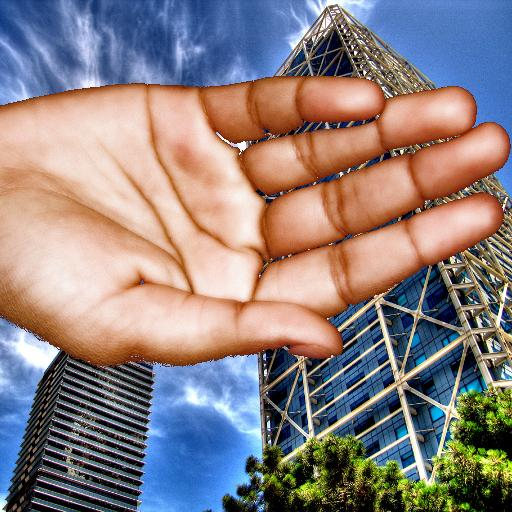
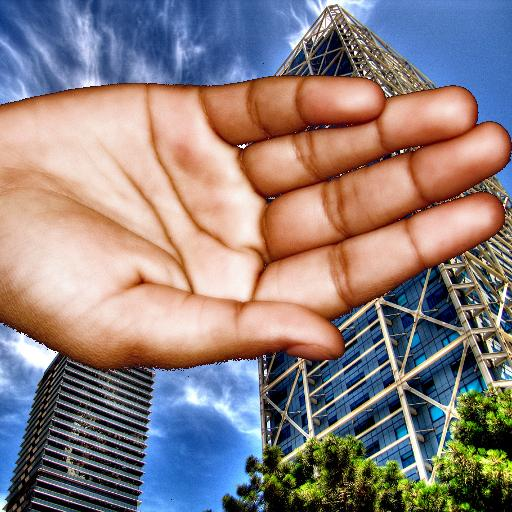
Ex6 Reviewed

diff --git a/exercise6.m b/exercise6.m
@@ -1,7 +1,7 @@
 % - - - - - - 
 % MAI CV
 % Exercises Lab 1
-% Author name: Jorge Alexander
+% Author name: Emer Rodriguez Formisano and Jorge Alexander
 % - - - - - - 
 
 
@@ -9,26 +9,27 @@
 %- - - - - - 
 %Exercise 6:
 %- - - - - - 
-% 1
+% 1 Read Input
 HAND = imread('images/hand.jpg');
 MAPFRE = imread('images/mapfre.jpg');
 grayscaleHand = rgb2gray(HAND);
-% 2
-foregroundHand = grayscaleHand >= 50;
-backgroundHand = grayscaleHand < 50;
-reverseBinary = (foregroundHand - 1).^2;
-% note reverse binary == backgroundHand
-subplot(1,4,1), imshow(HAND);
-subplot(1,4,2), imshow(foregroundHand);
-subplot(1,4,3), imshow(backgroundHand);
-subplot(1,4,4), imshow(reverseBinary);
 
-% 3
-background = MAPFRE.*uint8(reverseBinary);
+% 2 Binarization
+th = 20;
+foregroundHand = grayscaleHand >= th;
+backgroundHand = not(foregroundHand);
+
+subplot(2,2,1), imshow(HAND), title("Original Hand");
+subplot(2,2,2), imshow(MAPFRE), title("Original Mapfre");
+subplot(2,2,3), imshow(foregroundHand), title("Foreground");
+subplot(2,2,4), imshow(backgroundHand), title("Background");
+
+% 3 Merge
+background = MAPFRE.*uint8(backgroundHand);
 foreground = HAND.*uint8(foregroundHand);
 handMapfre = background + foreground;
-subplot(1,1,1), imshow(handMapfre);
+subplot(1,1,1), imshow(handMapfre), title("Hand + Mafre");
 
-% 4 
+% 4 Save output
 imwrite(handMapfre, 'hand_mapfre.jpg');
 

diff --git a/fuseImg.m b/fuseImg.m
@@ -1,0 +1,23 @@
+function fuseImg()
+%fuseImg Function that executes steps 1 to 4 of Exercise 6
+
+% 1 Read Input
+HAND = imread('images/hand.jpg');
+MAPFRE = imread('images/mapfre.jpg');
+grayscaleHand = rgb2gray(HAND);
+
+% 2 Binarization
+th = 20;
+foregroundHand = grayscaleHand >= th;
+backgroundHand = not(foregroundHand);
+
+% 3 Merge
+background = MAPFRE.*uint8(backgroundHand);
+foreground = HAND.*uint8(foregroundHand);
+handMapfre = background + foreground;
+
+% 4 Save output
+imwrite(handMapfre, 'hand_mapfre.jpg');
+
+end
+
